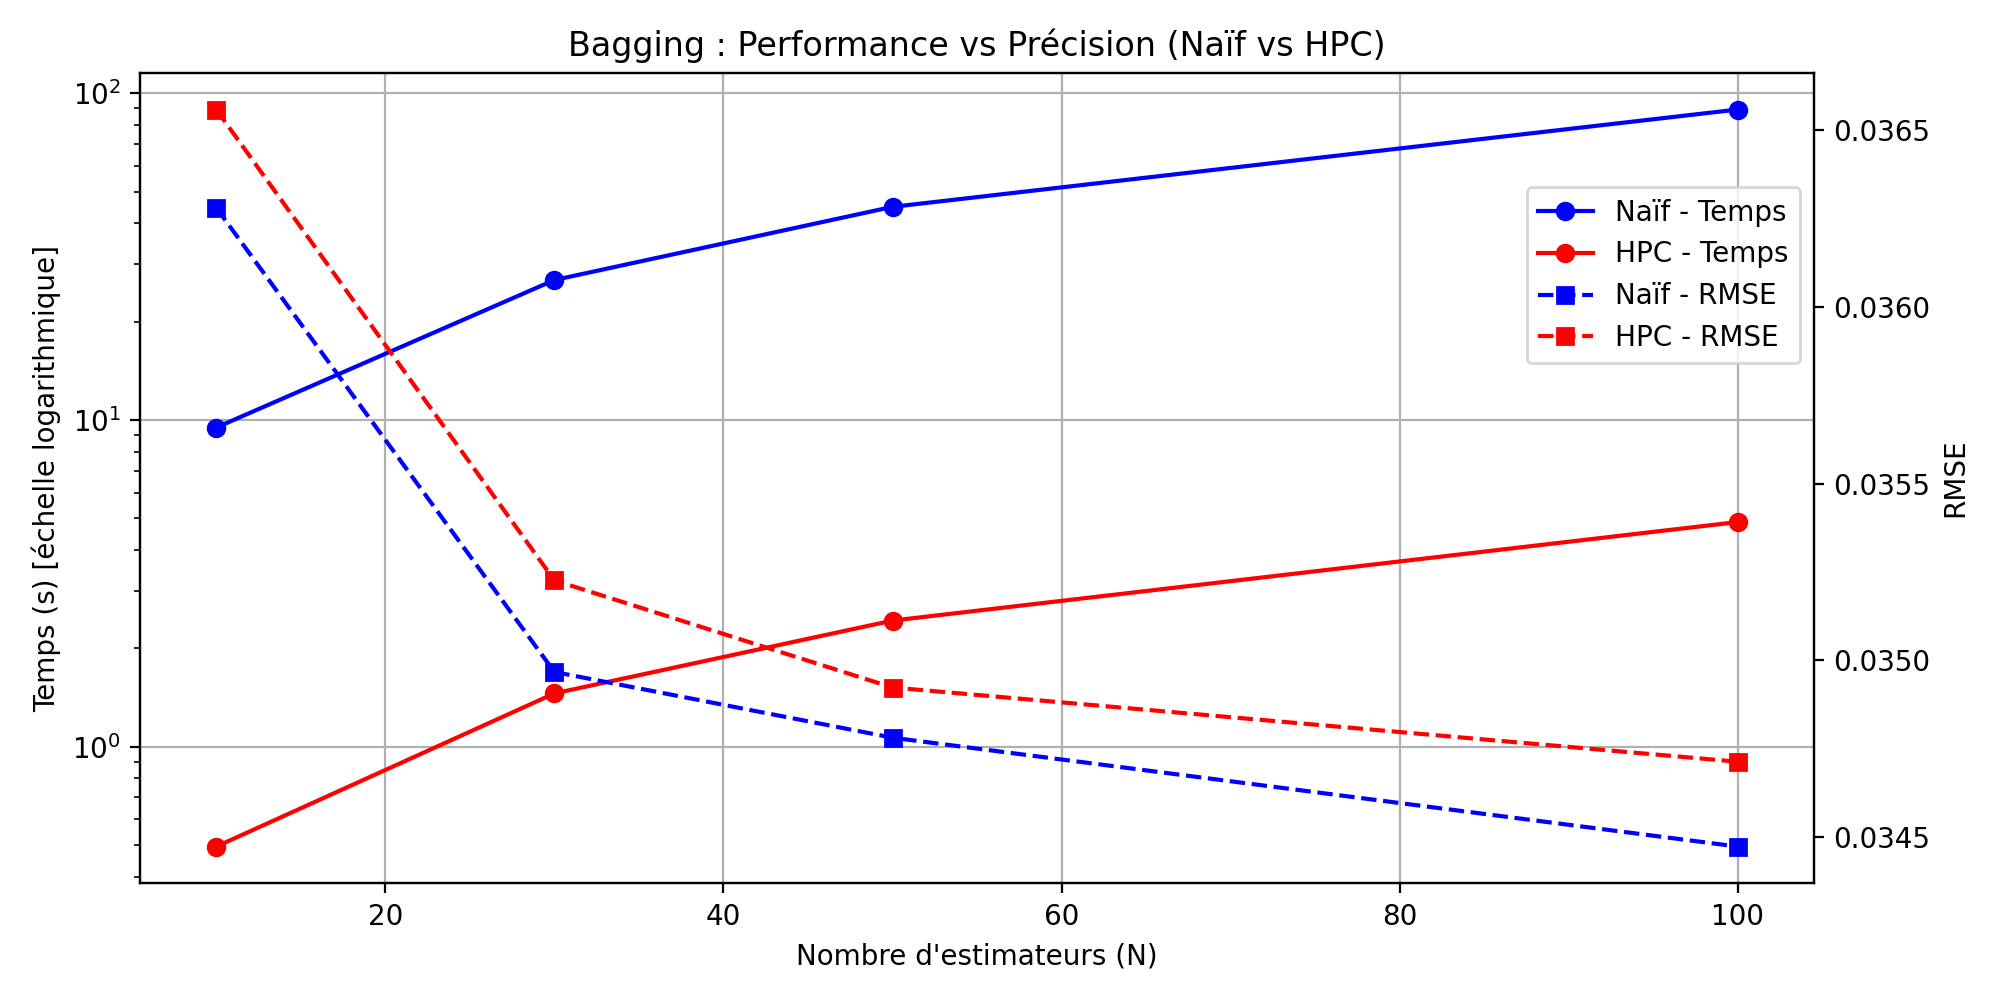
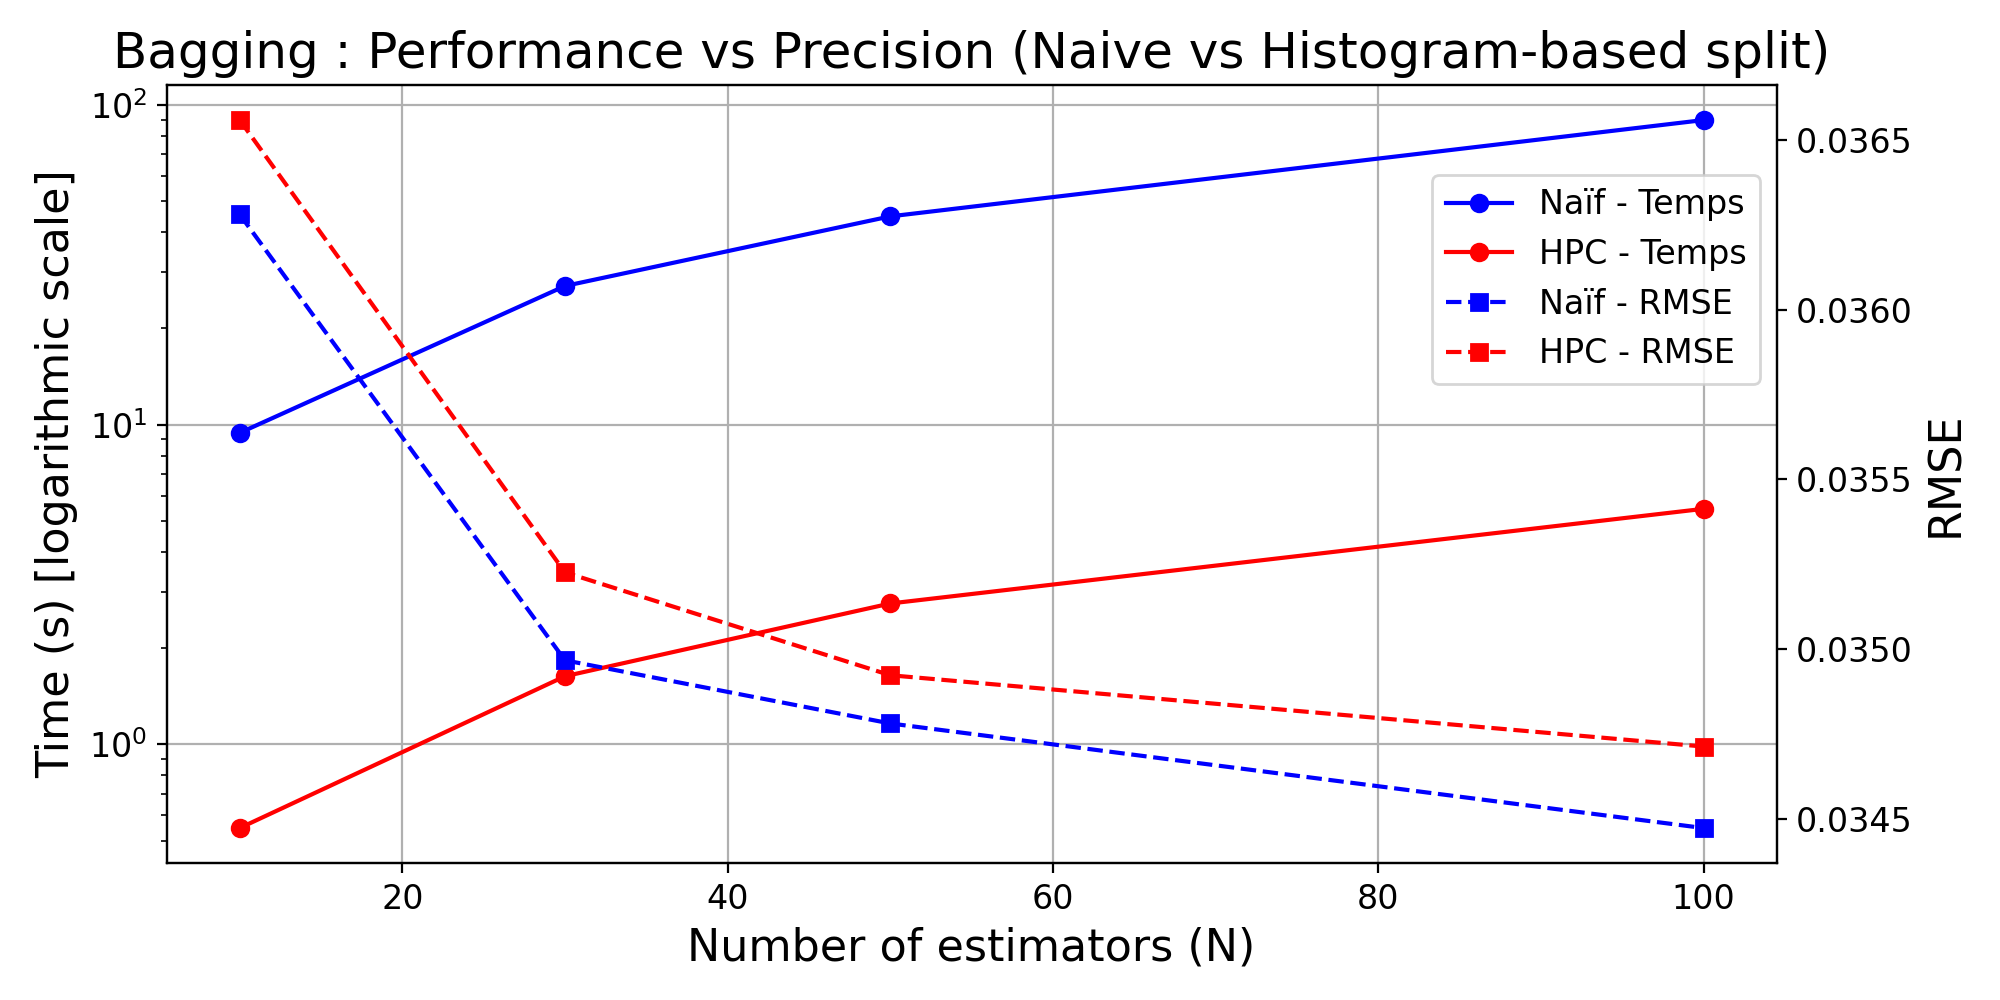
more benchmarks

diff --git a/scripts/double_plot.py b/scripts/double_plot.py
@@ -13,36 +13,36 @@ hist = df[df["model"] == "HistTree HPC"].sort_values("depth")
 fig, ax1 = plt.subplots(figsize=(10, 5))
 
 # ---- TIME (left axis) ----
-ax1.set_xlabel("Profondeur")
-ax1.set_ylabel("Temps (s)")
+ax1.set_xlabel("Depth", fontsize=16)
+ax1.set_ylabel("Time (s)", fontsize=16)
 
 ax1.plot(
     naive["depth"], naive["time"],
     marker="o",
     color="blue",
-    label="Naïf - Temps"
+    label="Naive - Time"
 )
 
 ax1.plot(
     hist["depth"], hist["time"],
     marker="o",
     color="red",
-    label="Hist - Temps"
+    label="Hist - Time"
 )
 
-ax1.tick_params(axis='y')
+ax1.tick_params(axis='both', labelsize=12)
 ax1.grid(True)
 
 # ---- ERROR (right axis) ----
 ax2 = ax1.twinx()
-ax2.set_ylabel("RMSE")
+ax2.set_ylabel("RMSE", fontsize=16)
 
 ax2.plot(
     naive["depth"], naive["rmse"],
     linestyle="--",
     marker="s",
     color="blue",
-    label="Naïf - RMSE"
+    label="Naive - RMSE"
 )
 
 ax2.plot(
@@ -53,19 +53,21 @@ ax2.plot(
     label="Hist - RMSE"
 )
 
-ax2.tick_params(axis='y')
+ax2.tick_params(axis='y', labelsize=12)
 
-# ---- LEGEND (combined, middle right) ----
+# ---- LEGEND ----
 lines_1, labels_1 = ax1.get_legend_handles_labels()
 lines_2, labels_2 = ax2.get_legend_handles_labels()
 
 ax1.legend(
     lines_1 + lines_2,
     labels_1 + labels_2,
-    loc="center right"
+    loc="center right",
+    fontsize=12
 )
 
-plt.title("Performance vs Précision : Naïf vs HistTree HPC")
+plt.title("Performance vs Precision : Naive vs Histogram-based split", fontsize=18)
+
 plt.tight_layout()
 plt.savefig(output_image, dpi=200)
 

diff --git a/scripts/plot_bag_par.py b/scripts/plot_bag_par.py
@@ -7,16 +7,15 @@ output_image = sys.argv[2]
 
 df = pd.read_csv(csv_file)
 
-# ---- filtering (adapted to Boosting naming) ----
-naive = df[df["model"] == "Boosting Naïf"].sort_values("n_estimators")
-hpc = df[df["model"] == "Boosting HPC"].sort_values("n_estimators")
+# ---- filtering ----
+naive = df[df["model"] == "Bagging Naïf"].sort_values("n_estimators")
+hpc = df[df["model"] == "Bagging HPC"].sort_values("n_estimators")
 
 fig, ax1 = plt.subplots(figsize=(10, 5))
 
 # ---- TIME (left axis) ----
 ax1.set_xlabel("Iterations (N)", fontsize=16)
-ax1.set_ylabel("Time (s) [logarithmic scale]", fontsize=16)
-ax1.set_yscale("log")
+ax1.set_ylabel("Time (s)", fontsize=16)
 
 ax1.plot(
     naive["n_estimators"], naive["time"],
@@ -29,11 +28,11 @@ ax1.plot(
     hpc["n_estimators"], hpc["time"],
     marker="o",
     color="red",
-    label="Hist - Time"
+    label="HPC - Time"
 )
 
 ax1.tick_params(axis='both', labelsize=12)
-ax1.grid(True)
+ax1.grid(True, linestyle="--", alpha=0.4)
 
 # ---- ERROR (right axis) ----
 ax2 = ax1.twinx()
@@ -52,7 +51,7 @@ ax2.plot(
     linestyle="--",
     marker="s",
     color="red",
-    label="Hist - RMSE"
+    label="HPC - RMSE"
 )
 
 ax2.tick_params(axis='y', labelsize=12)
@@ -69,7 +68,7 @@ ax1.legend(
     fontsize=12
 )
 
-plt.title("Boosting : Performance vs Precision (Naive vs Histogram-based split)", fontsize=18)
+plt.title("Boosting: Performance vs Precision (Naive vs HPC)", fontsize=18)
 
 plt.tight_layout()
 plt.savefig(output_image, dpi=200)

diff --git a/scripts/double_plot_bag.py b/scripts/double_plot_bag.py
@@ -13,9 +13,8 @@ hist = df[df["model"] == "Bagging HPC"].sort_values("n_estimators")
 fig, ax1 = plt.subplots(figsize=(10, 5))
 
 # ---- TIME (left axis) ----
-ax1.set_xlabel("Nombre d'estimateurs (N)")
-ax1.set_ylabel("Temps (s) [échelle logarithmique]")
-
+ax1.set_xlabel("Number of estimators (N)", fontsize=16)
+ax1.set_ylabel("Time (s) [logarithmic scale]", fontsize=16)
 
 ax1.set_yscale("log")
 
@@ -33,12 +32,12 @@ ax1.plot(
     label="HPC - Temps"
 )
 
-ax1.tick_params(axis='y')
+ax1.tick_params(axis='both', labelsize=12)
 ax1.grid(True)
 
 # ---- ERROR (right axis) ----
 ax2 = ax1.twinx()
-ax2.set_ylabel("RMSE")
+ax2.set_ylabel("RMSE", fontsize=16)
 
 ax2.plot(
     naive["n_estimators"], naive["rmse"],
@@ -56,9 +55,9 @@ ax2.plot(
     label="HPC - RMSE"
 )
 
-ax2.tick_params(axis='y')
+ax2.tick_params(axis='y', labelsize=12)
 
-# ---- LEGEND (middle right) ----
+# ---- LEGEND ----
 lines_1, labels_1 = ax1.get_legend_handles_labels()
 lines_2, labels_2 = ax2.get_legend_handles_labels()
 
@@ -66,10 +65,12 @@ ax1.legend(
     lines_1 + lines_2,
     labels_1 + labels_2,
     loc="center right",
-    bbox_to_anchor=(1, 0.75)
+    bbox_to_anchor=(1, 0.75),
+    fontsize=12
 )
 
-plt.title("Bagging : Performance vs Précision (Naïf vs HPC)")
+plt.title("Bagging : Performance vs Precision (Naive vs Histogram-based split)", fontsize=18)
+
 plt.tight_layout()
 plt.savefig(output_image, dpi=200)
 

diff --git a/src/main.cpp b/src/main.cpp
@@ -69,7 +69,7 @@ int main(int argc, char** argv) {
 
         PerformanceEvaluator::print_header();
 
-    /*
+        /*
         
         std::vector<int> depths = {5, 8, 10, 15};
 
@@ -93,7 +93,8 @@ int main(int argc, char** argv) {
                 return t;
             }, X, y); 
         }  
-
+        
+        
         std::vector<int> n_trees = {10, 30, 50, 100}; // On monte jusqu'à 100 arbres pour saturer les cœurs
 
         for (int n : n_trees) {
@@ -118,11 +119,7 @@ int main(int argc, char** argv) {
             }, X, y);
         }
 
-        */
-
-        std::vector<int> n_trees = {10, 30, 50, 100}; // On monte jusqu'à 100 arbres pour saturer les cœurs
-
-        /*
+        
         PerformanceEvaluator::evaluate(name, "Boosting Naïf (N=" + std::to_string(n) + ")", [n]() {
             BoostingRegressor bg;
             bg.n_estimators = n;
@@ -143,6 +140,8 @@ int main(int argc, char** argv) {
         },
         X, y);
     } */
+
+    std::vector<int> n_trees = {10, 30, 50, 100};
 
     for (int n : n_trees) {
     PerformanceEvaluator::evaluate(name, "Boosting Naïf (N=" + std::to_string(n) + ")", [n]() {
@@ -165,7 +164,7 @@ int main(int argc, char** argv) {
                 return b;
             }, X, y);
         }  
-
+        
         std::cout << "\nTerminé !" << std::endl;
     } else {
         std::cout << "Mode non supporté pour le moment." << std::endl;

diff --git a/scripts/plot_boost_par.py b/scripts/plot_boost_par.py
@@ -7,7 +7,7 @@ output_image = sys.argv[2]
 
 df = pd.read_csv(csv_file)
 
-# ---- filtering (adapted to Boosting naming) ----
+# ---- filtering ----
 naive = df[df["model"] == "Boosting Naïf"].sort_values("n_estimators")
 hpc = df[df["model"] == "Boosting HPC"].sort_values("n_estimators")
 
@@ -15,8 +15,7 @@ fig, ax1 = plt.subplots(figsize=(10, 5))
 
 # ---- TIME (left axis) ----
 ax1.set_xlabel("Iterations (N)", fontsize=16)
-ax1.set_ylabel("Time (s) [logarithmic scale]", fontsize=16)
-ax1.set_yscale("log")
+ax1.set_ylabel("Time (s)", fontsize=16)
 
 ax1.plot(
     naive["n_estimators"], naive["time"],
@@ -29,11 +28,11 @@ ax1.plot(
     hpc["n_estimators"], hpc["time"],
     marker="o",
     color="red",
-    label="Hist - Time"
+    label="HPC - Time"
 )
 
 ax1.tick_params(axis='both', labelsize=12)
-ax1.grid(True)
+ax1.grid(True, linestyle="--", alpha=0.4)
 
 # ---- ERROR (right axis) ----
 ax2 = ax1.twinx()
@@ -52,7 +51,7 @@ ax2.plot(
     linestyle="--",
     marker="s",
     color="red",
-    label="Hist - RMSE"
+    label="HPC - RMSE"
 )
 
 ax2.tick_params(axis='y', labelsize=12)
@@ -69,7 +68,7 @@ ax1.legend(
     fontsize=12
 )
 
-plt.title("Boosting : Performance vs Precision (Naive vs Histogram-based split)", fontsize=18)
+plt.title("Boosting: Performance vs Precision (Naive vs HPC)", fontsize=18)
 
 plt.tight_layout()
 plt.savefig(output_image, dpi=200)

diff --git a/src/HistogramBaggingRegressor.cpp b/src/HistogramBaggingRegressor.cpp
@@ -21,7 +21,7 @@ void HistogramBaggingRegressor::fit(const QuantizedDataset& dataset) {
     std::cout << "[OpenMP] Lancement du Bagging HPC sur " << omp_get_max_threads() << " threads..." << std::endl;
 
 
-    #pragma omp parallel for schedule(dynamic)
+    //#pragma omp parallel for schedule(dynamic)
     for (int b = 0; b < n_estimators; ++b) {
         
         std::mt19937 local_gen(seed + b * 19937); 
@@ -48,7 +48,7 @@ double HistogramBaggingRegressor::predict(const std::vector<double>& x) const {
     
     // Le processeur additionne en cache L1 local, puis fait la somme finale
     
-    #pragma omp parallel for reduction(+:sum)
+    //#pragma omp parallel for reduction(+:sum)
     for (int b = 0; b < n_estimators; ++b) {
         sum += trees[b].predict(x);
     }

diff --git a/src/test.cpp b/src/test.cpp
@@ -1,0 +1,13 @@
+#include <omp.h>
+#include <iostream>
+
+int main() {
+    #pragma omp parallel
+    {
+        int id = omp_get_thread_num();
+        int n = omp_get_num_threads();
+
+        #pragma omp critical
+        std::cout << "Thread " << id << " / " << n << std::endl;
+    }
+}
